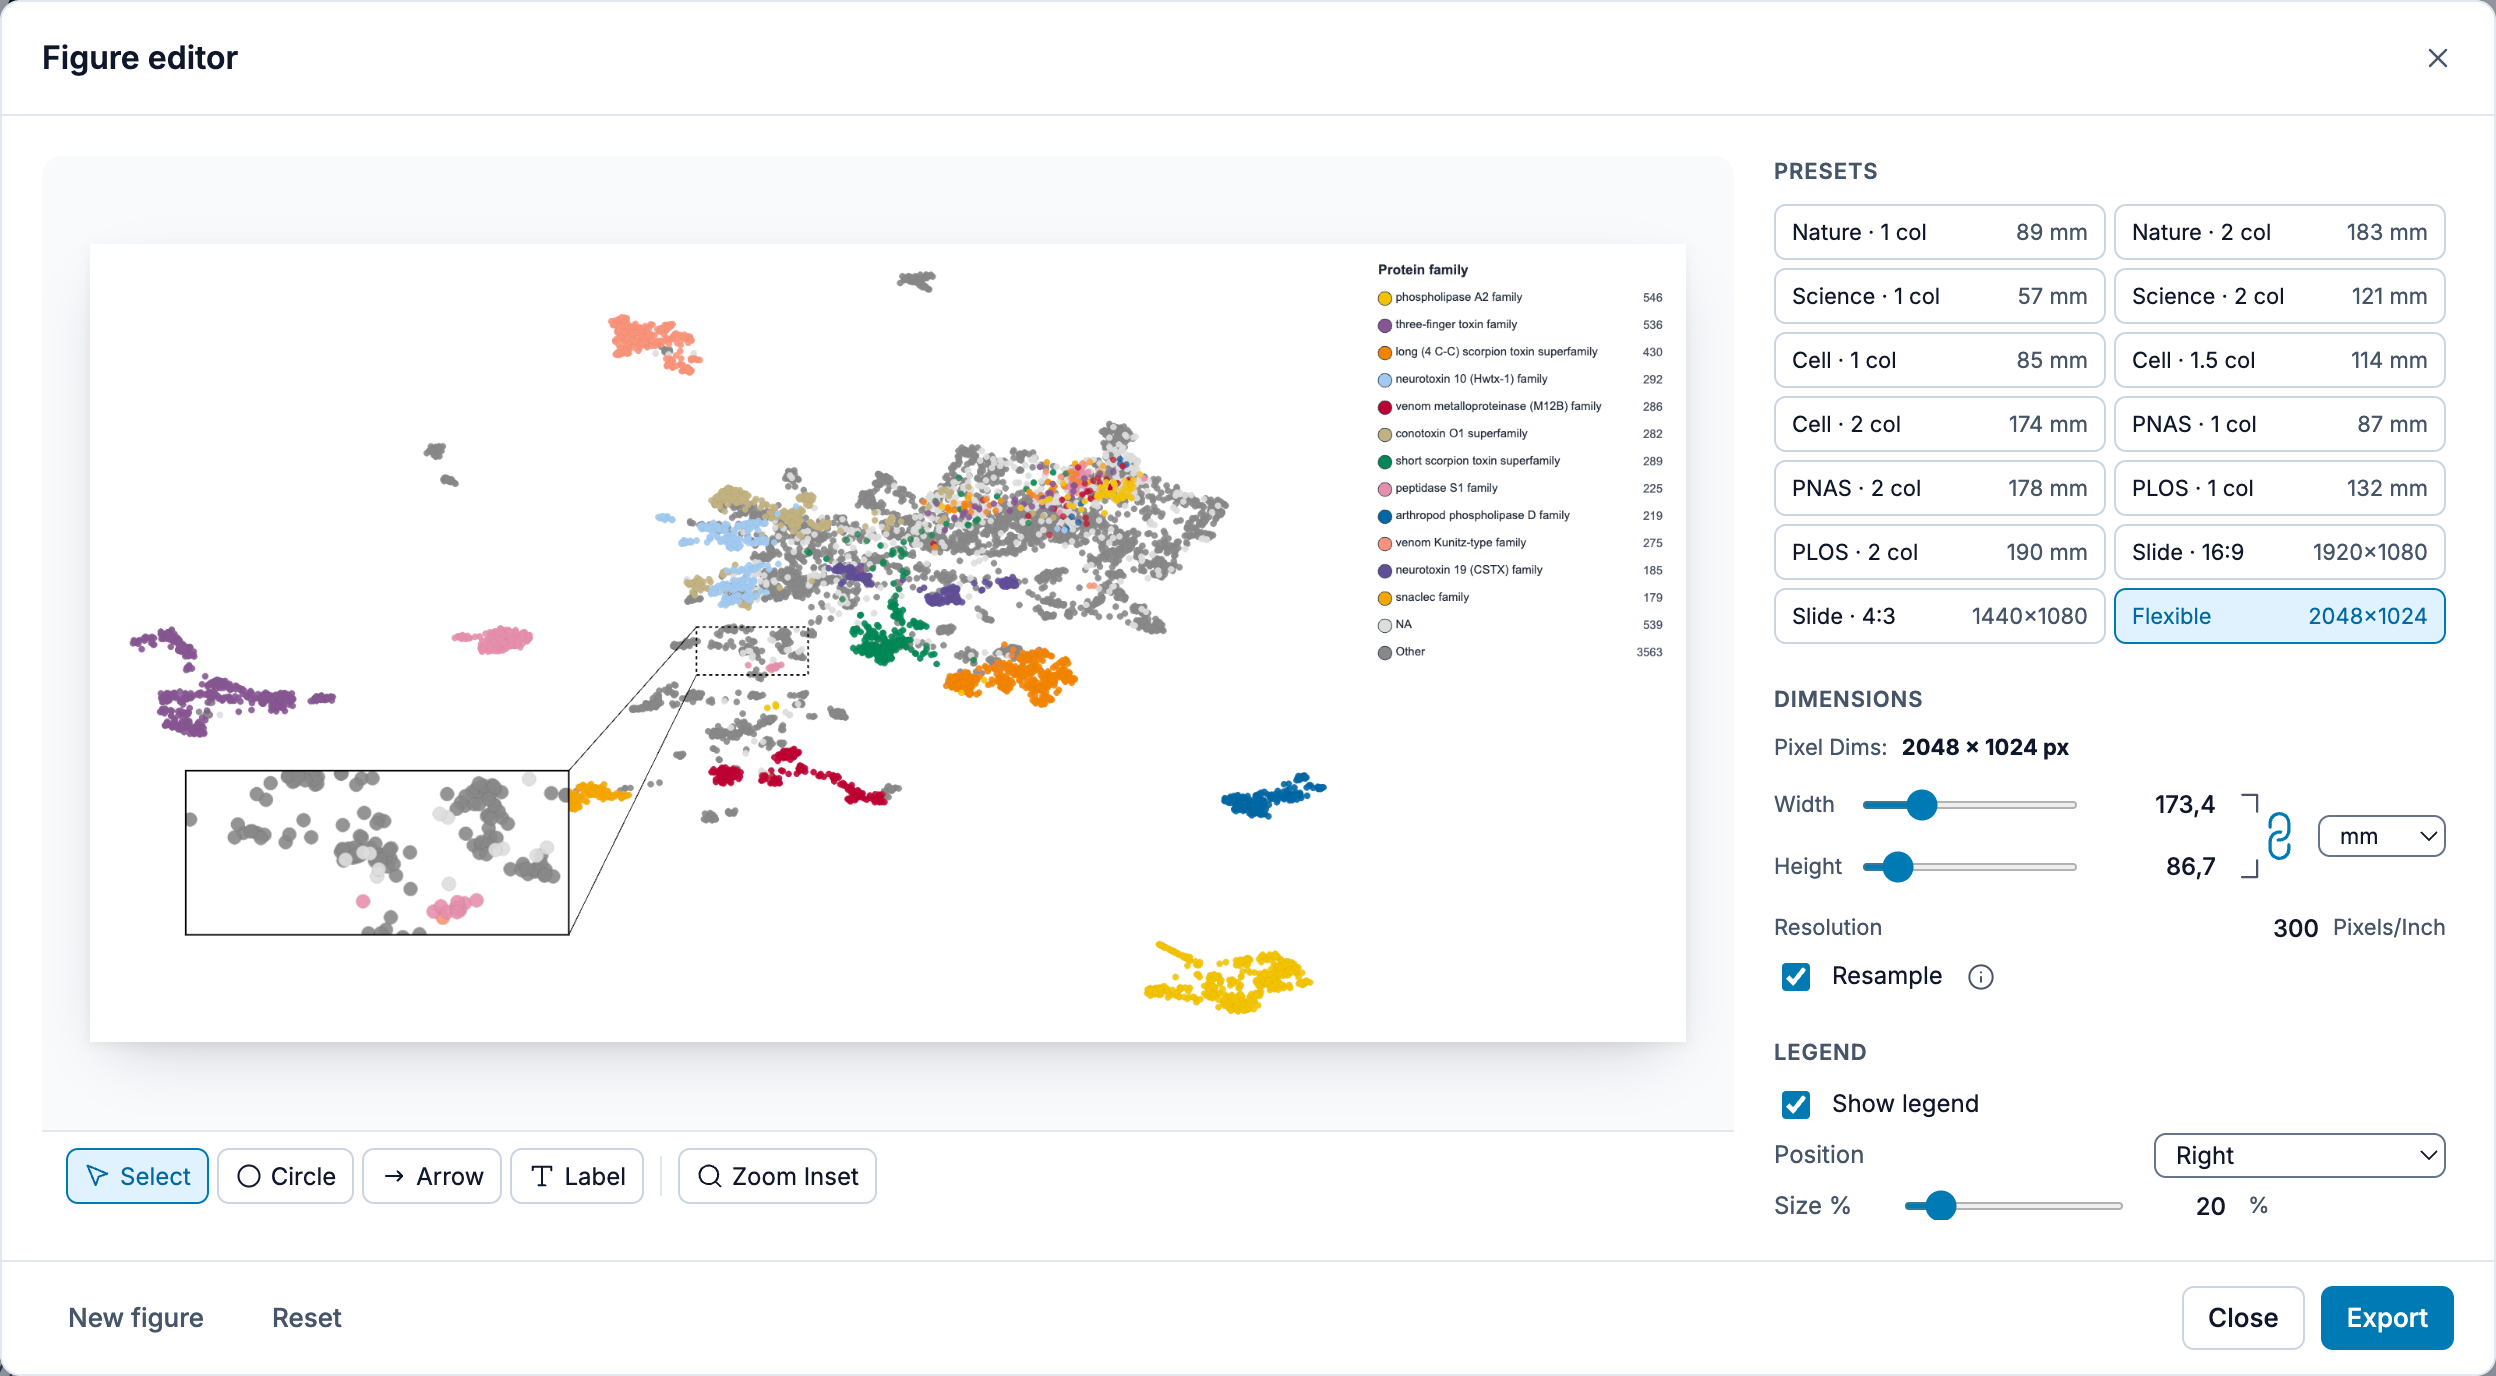
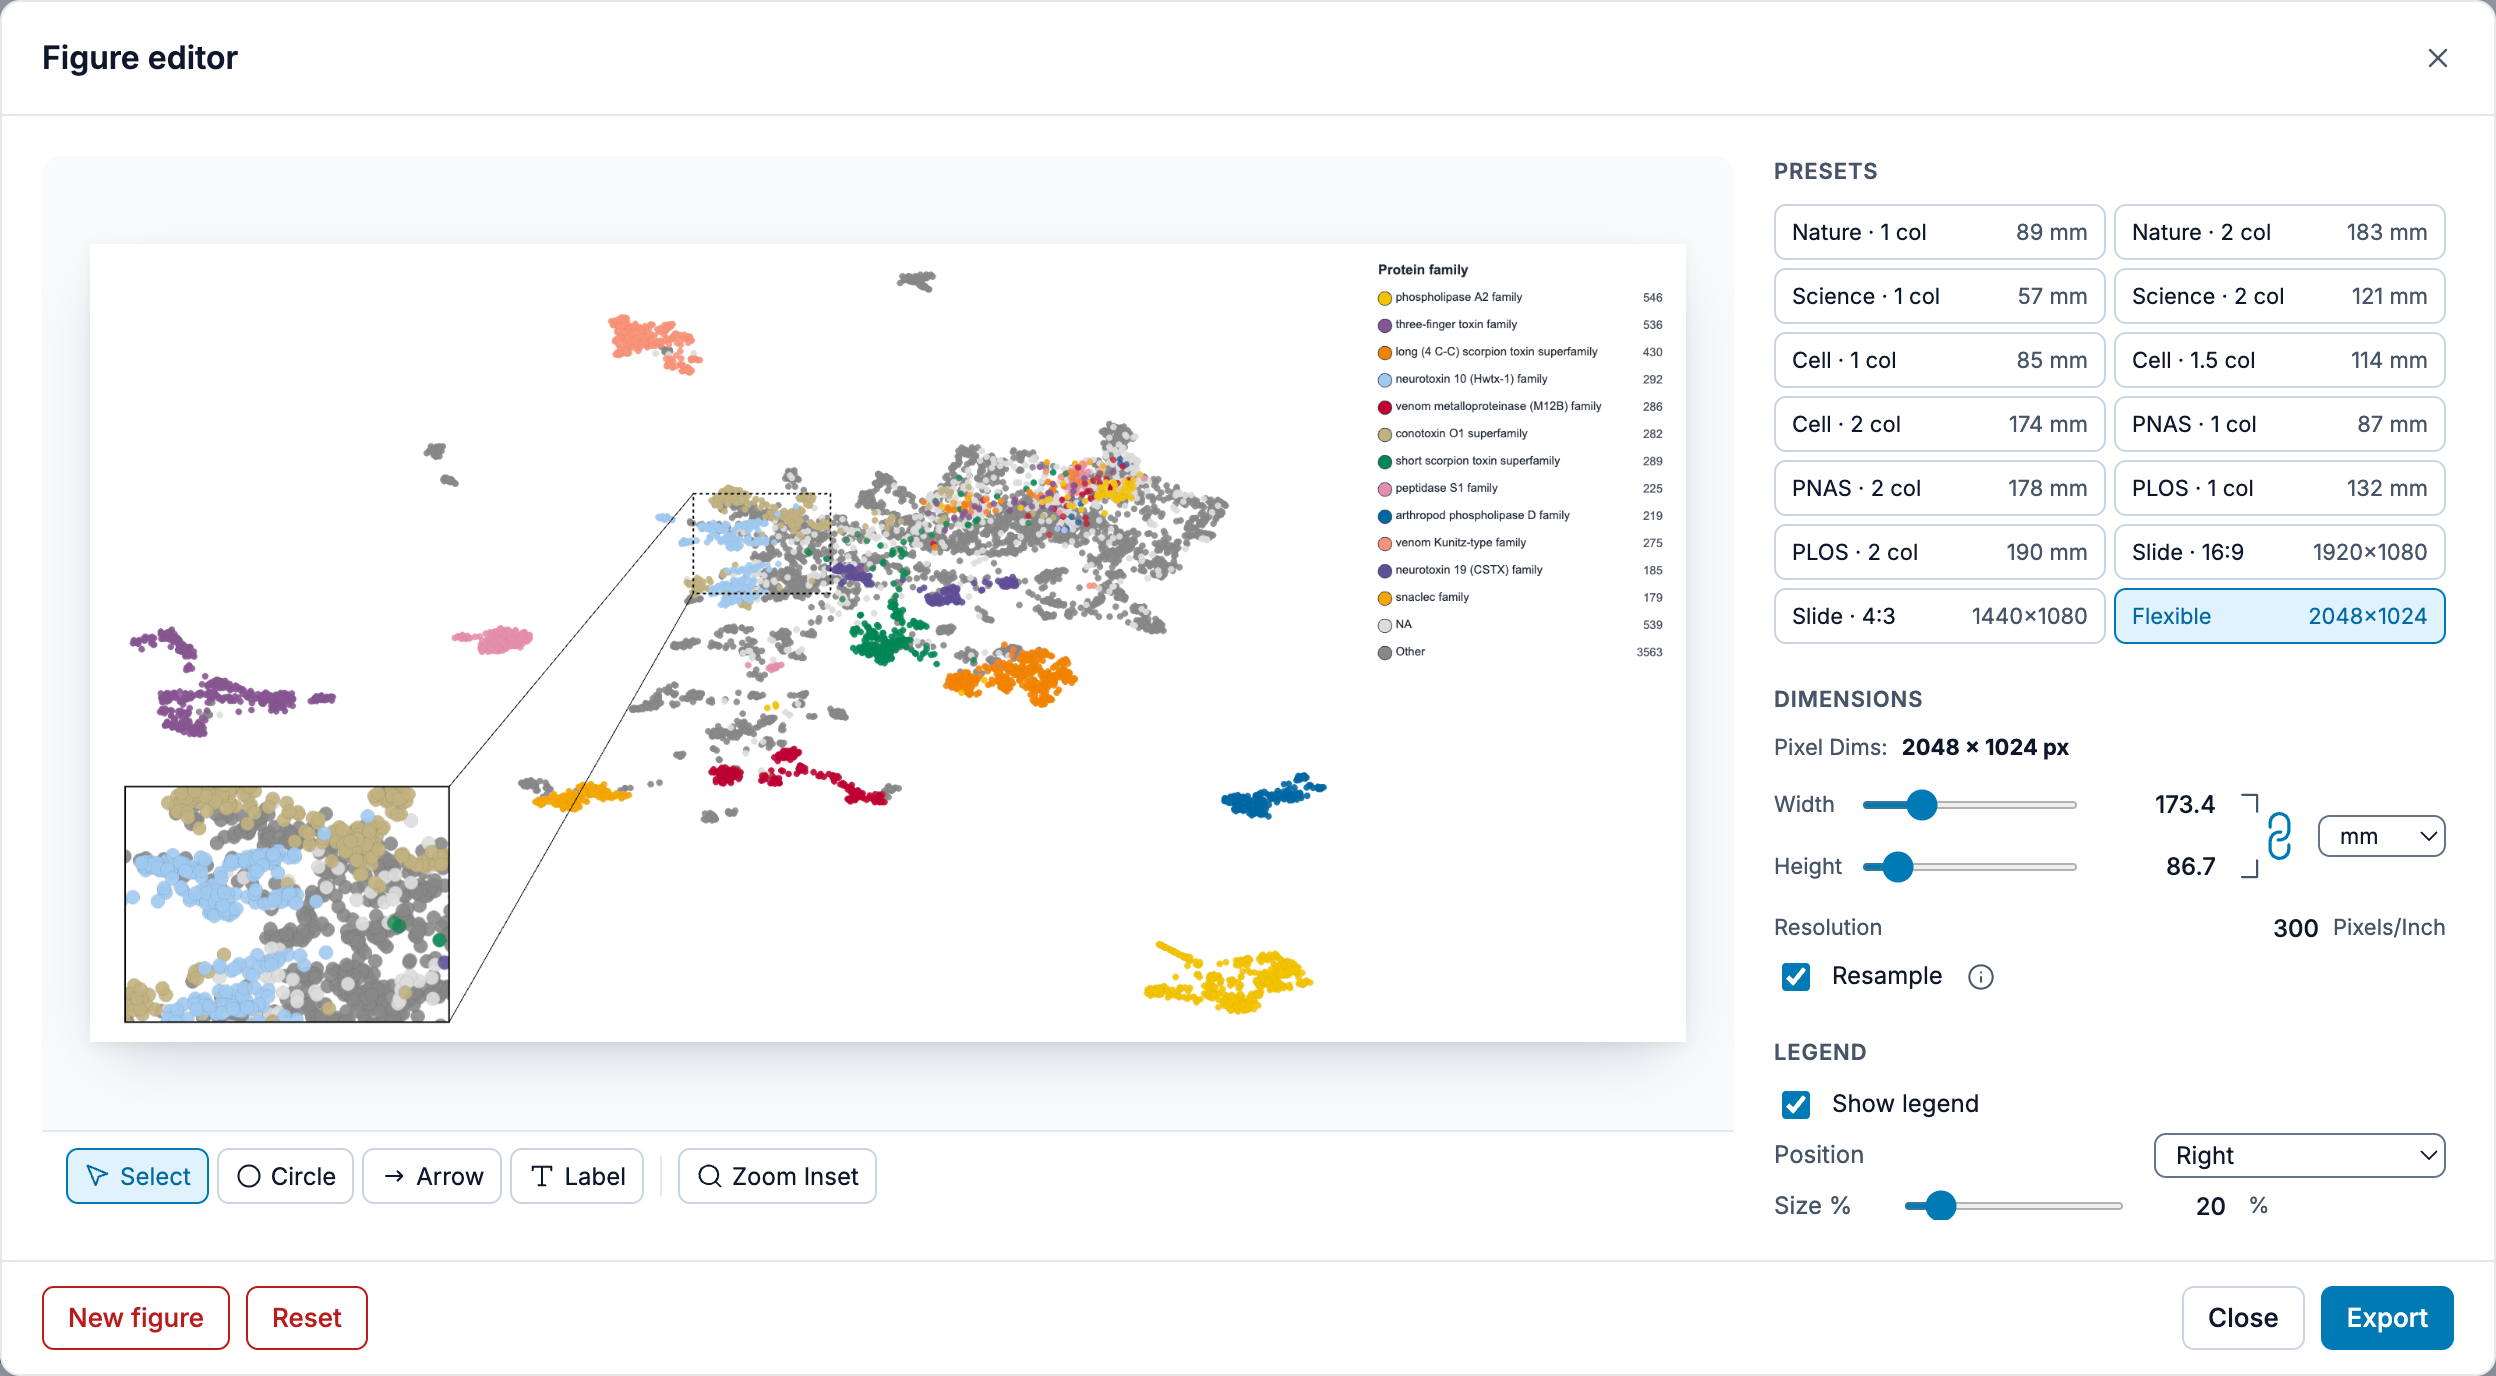
docs(explore): place the figure editor's overlays on the new framing and recapture
The capture scene clicked its circle, arrow, labels and zoom inset at canvas
spots chosen for the old framing, so on the fitted, tighter plot the circle sat
on grey points, "Cluster 1" on the orange cluster it should mark, and the arrow
on the pink cluster. The spots now follow the clusters again, and all four
figure-editor images are recaptured (they also predated the red New figure /
Reset buttons). Captures pin locale en-US, so numbers read 3.6 whatever the
capturing machine's locale.

Changed region(s): [[0.0312, 0.5625, 0.25, 0.75], [0.0312, 0.9375, 0.1562, 0.9688]]

diff --git a/scripts/docs-screenshots/scenes/figure-editor.ts b/scripts/docs-screenshots/scenes/figure-editor.ts
@@ -17,19 +17,22 @@ type Spot = { x: number; y: number };
 
 /**
  * Where the overlays go, as fractions of the preview canvas (0,0 its top-left corner). The legend
- * takes the right of the figure, so every spot stays in the left two thirds. Chosen against the
- * demo's curated view; if a capture frames empty space, move these and capture again.
+ * takes the right fifth of the figure, so every spot stays left of it. Chosen against the demo's
+ * curated view in the plot's fitted framing; if a capture frames empty space, move these and
+ * capture again.
  */
 const SPOTS = {
-  // A circle around the orange cluster below the centre, labelled to its right (a label is
-  // centred on its spot).
-  circle: { centre: { x: 0.467, y: 0.535 }, edge: { x: 0.503, y: 0.535 } },
-  circleLabel: { x: 0.6, y: 0.535 },
-  // An arrow into the purple cluster on the left, labelled at its tail.
-  arrow: { from: { x: 0.17, y: 0.34 }, to: { x: 0.27, y: 0.53 } },
-  arrowLabel: { x: 0.16, y: 0.3 },
-  insetSource: { from: { x: 0.38, y: 0.48 }, to: { x: 0.45, y: 0.54 } },
-  insetTarget: { from: { x: 0.06, y: 0.66 }, to: { x: 0.3, y: 0.66 } },
+  // A circle around the orange cluster right of centre, labelled in the empty space to its right
+  // (a label is centred on its spot).
+  circle: { centre: { x: 0.577, y: 0.542 }, edge: { x: 0.624, y: 0.542 } },
+  circleLabel: { x: 0.693, y: 0.542 },
+  // An arrow down into the large purple cluster on the left, labelled at its tail, above it.
+  arrow: { from: { x: 0.155, y: 0.383 }, to: { x: 0.12, y: 0.552 } },
+  arrowLabel: { x: 0.135, y: 0.328 },
+  // The mixed patch left of centre (beige, light blue, purple among grey), zoomed into the empty
+  // lower left; the target's height follows the source's shape.
+  insetSource: { from: { x: 0.378, y: 0.313 }, to: { x: 0.464, y: 0.438 } },
+  insetTarget: { from: { x: 0.022, y: 0.68 }, to: { x: 0.225, y: 0.68 } },
   empty: { x: 0.01, y: 0.01 },
 };
 

diff --git a/playwright.config.ts b/playwright.config.ts
@@ -33,6 +33,8 @@ export default defineConfig({
     screenshot: 'off',
     // Headed on macOS for the system GPU's WebGL; CI runs headless on SwiftShader.
     headless: !!process.env.CI,
+    // The docs are English: numbers read 3.6, not the capturing machine's 3,6.
+    locale: 'en-US',
   },
 
   webServer: process.env.PLAYWRIGHT_BASE_URL
